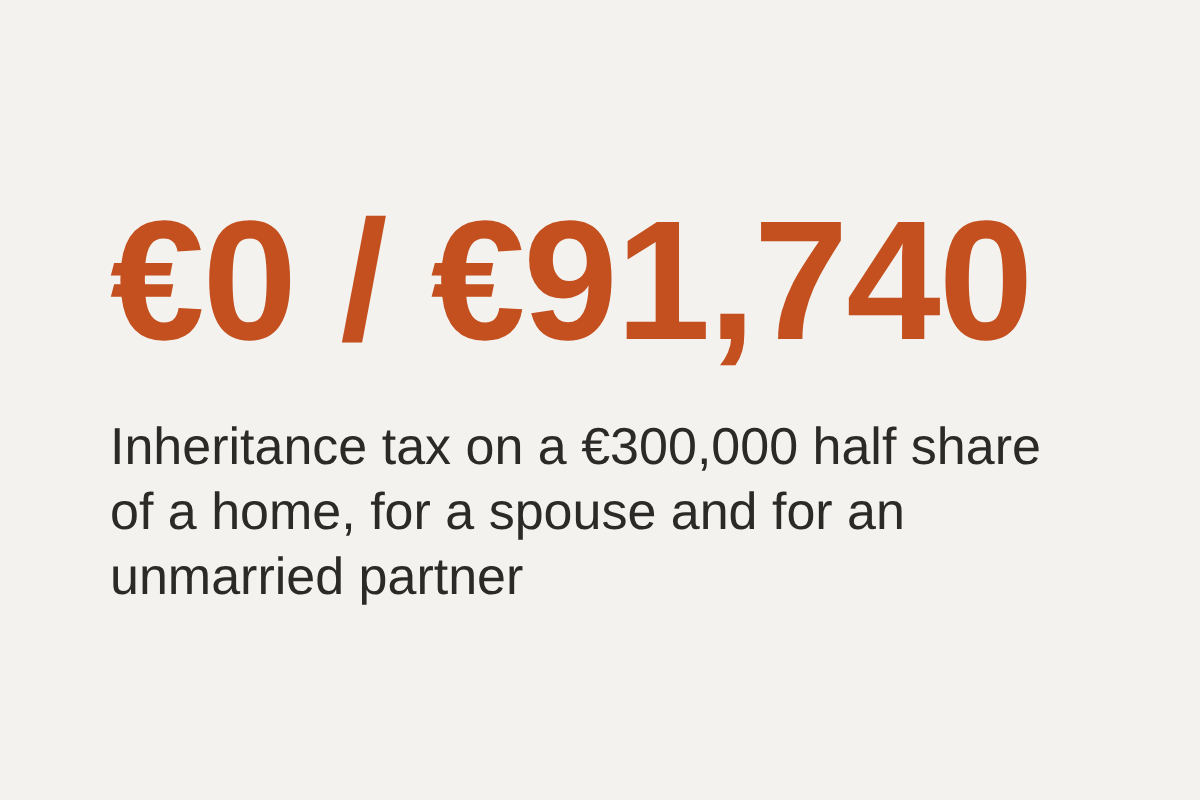
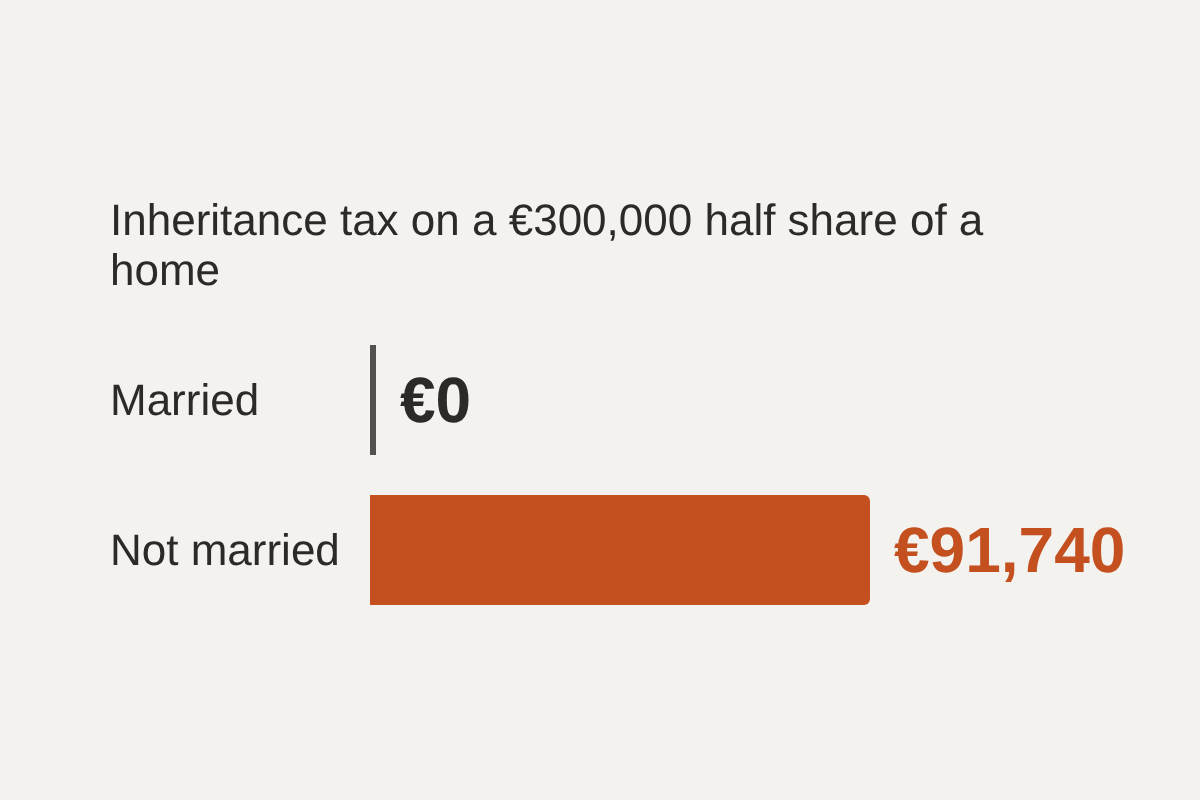
Use an inheritance tax chart as the Cohabitation in Ireland cover
Claude-Session: https://claude.ai/code/session_01Wbsbq43nNiASMvti1Cx9yU

Changed region(s): [[0.0925, 0.4375, 0.9558, 0.7812], [0.0925, 0.25, 0.8633, 0.4688]]

diff --git a/analysis/cohabitation/make_tiles.js b/analysis/cohabitation/make_tiles.js
@@ -5,7 +5,6 @@ const path = require("path");
 
 // [file, heading, line under it, colour of the heading]
 const tiles = [
-  ["cohabitation.png", "€0 / €91,740", "Inheritance tax on a €300,000 half share of a home, for a spouse and for an unmarried partner", "#c4501f"],
   ["cohabitation-cost.png", "The cost of not marrying", "", "#c4501f"],
   ["cohabitation-calculator.png", "Calculator", "", "#2a78d6"],
   ["cohabitation-constitution.png", "The Constitution and the courts", "", "#158a60"],
@@ -22,5 +21,14 @@ const tiles = [
       </body></html>`);
     await page.screenshot({ path: path.join(__dirname, "..", "..", "images", file) });
   }
+  // Home page cover: inheritance tax on a €300,000 half share of a home, married and not.
+  await page.setContent(`<!doctype html><html><body style="margin:0;width:1200px;height:800px;background:#f3f2ee;
+    font-family:'Source Sans Pro','Liberation Sans',Arial,sans-serif;box-sizing:border-box;padding:90px 110px;display:flex;flex-direction:column;justify-content:center">
+    <div style="font-size:44px;color:#2b2a28;margin-bottom:50px">Inheritance tax on a €300,000 half share of a home</div>
+    <div style="display:grid;grid-template-columns:260px 1fr;row-gap:40px;align-items:center;font-size:44px;color:#2b2a28">
+      <div>Married</div><div style="display:flex;align-items:center;gap:24px"><div style="width:6px;height:110px;background:#52514e"></div><b style="font-size:64px">€0</b></div>
+      <div>Not married</div><div style="display:flex;align-items:center;gap:24px"><div style="width:500px;height:110px;background:#c4501f;border-radius:0 6px 6px 0"></div><b style="font-size:64px;color:#c4501f">€91,740</b></div>
+    </div></body></html>`);
+  await page.screenshot({ path: path.join(__dirname, "..", "..", "images", "cohabitation.png") });
   await browser.close();
 })();
